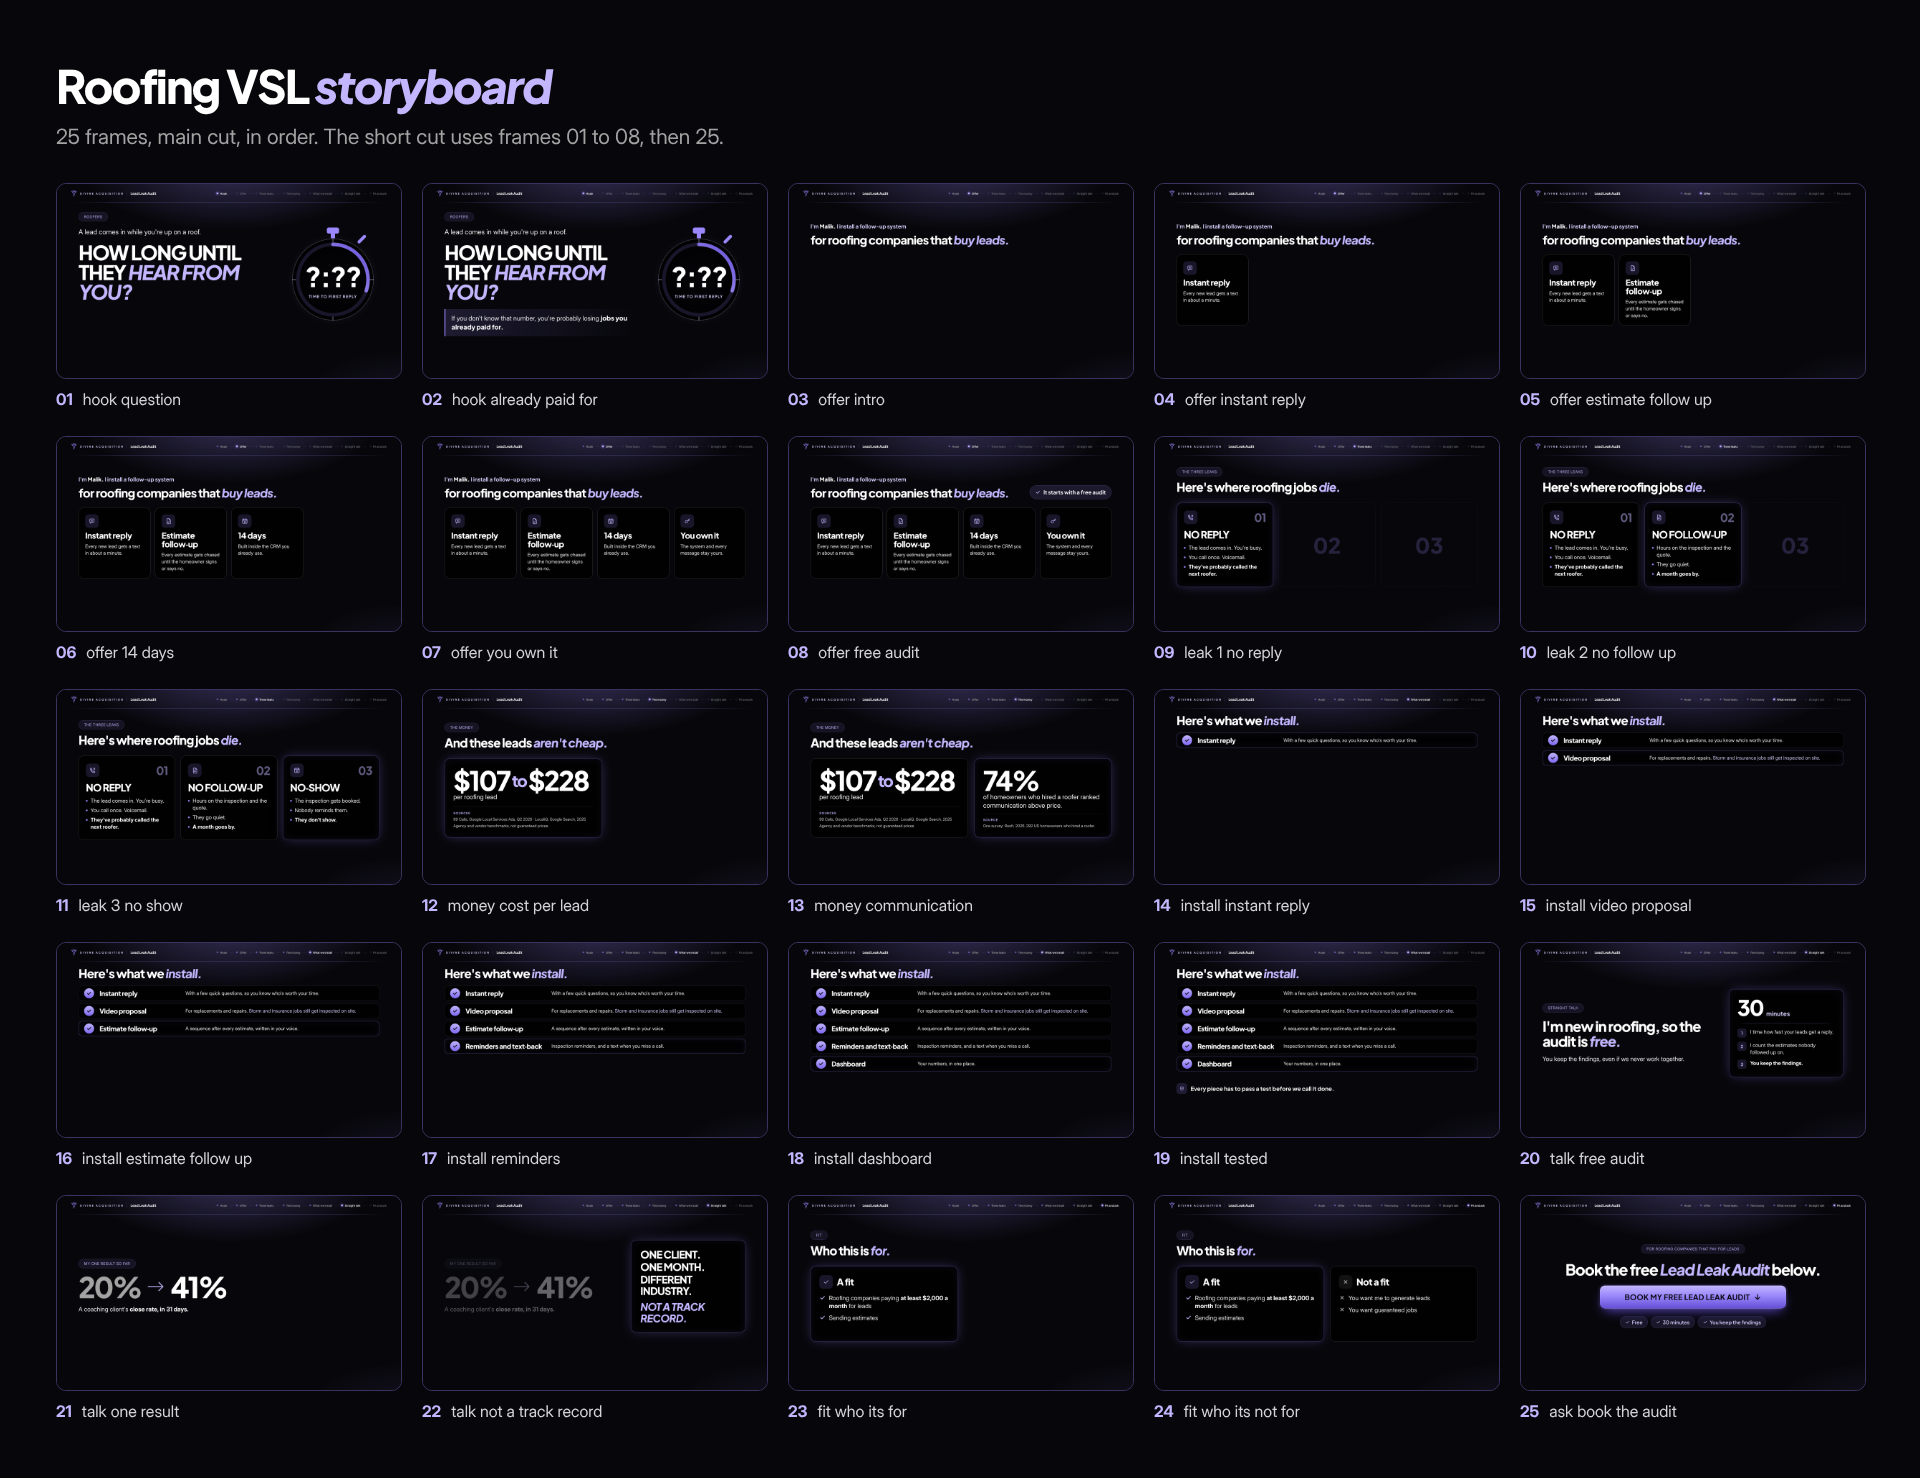
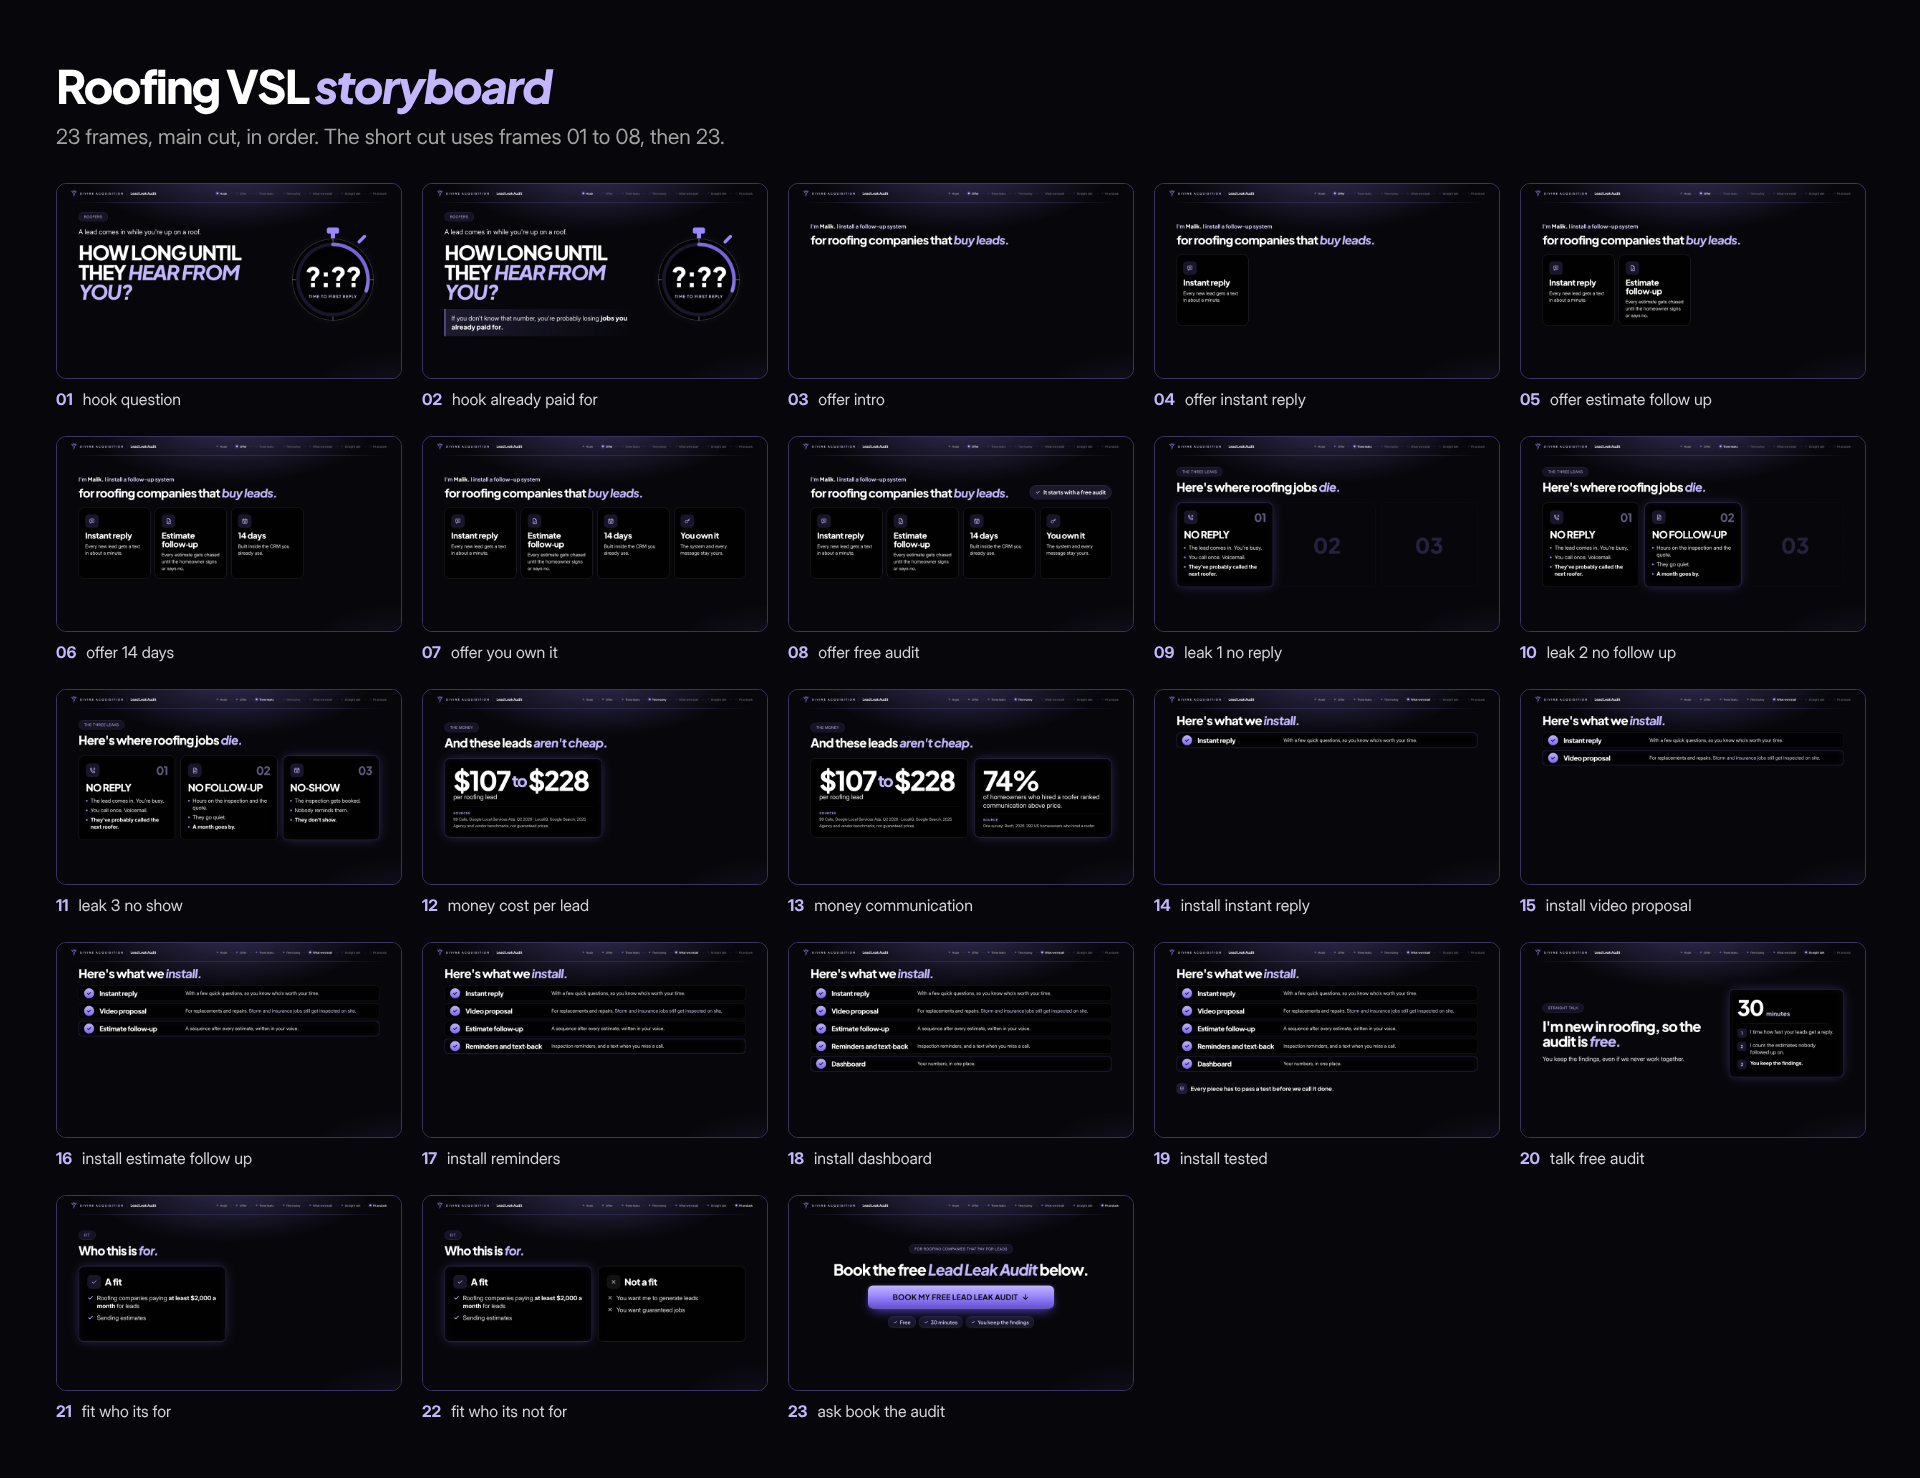
Drop the coaching client result from the roofing VSL deck.
The straight-talk section now ends on the free audit, so the main cut is 23 frames and about 2:15. The README and the script window's time marks follow the new order.

Claude-Session: https://claude.ai/code/session_01Kh6jz6vtaj6KuuUY9dr5wz

diff --git a/docs/roofing-vsl/deck.html b/docs/roofing-vsl/deck.html
@@ -204,8 +204,7 @@ body.idle { cursor: none; }
   pointer-events: none;
 }
 
-html.export [data-step],
-html.export .dim { transition: none !important; }
+html.export [data-step] { transition: none !important; }
 
 /* ─── Shared pieces, scaled up from the roofing page ────────────────────── */
 
@@ -300,12 +299,6 @@ h1, h2, h3 {
   stroke-width: 1.8;
   stroke-linecap: round;
   stroke-linejoin: round;
-}
-
-.dim {
-  opacity: 0.38;
-  filter: saturate(0.6);
-  transition: opacity 0.45s ease, filter 0.45s ease;
 }
 
 .rule {
@@ -564,33 +557,6 @@ h1, h2, h3 {
   font-weight: 800;
 }
 .clock li:last-child { color: #fff; font-weight: 700; }
-
-/* ─── Straight talk: the one result ──────────────────────────────────────── */
-
-.s-result { align-items: center; gap: 70px; }
-.s-result .result { display: flex; flex: 1; flex-direction: column; gap: 30px; }
-.jump { display: flex; align-items: center; gap: 34px; }
-.jump strong { font-family: var(--head); font-size: 160px; font-weight: 800; letter-spacing: -0.06em; line-height: 0.9; }
-.jump .from { color: var(--muted); }
-.jump svg { width: 96px; height: 62px; fill: none; stroke: var(--accent); stroke-width: 6; stroke-linecap: round; stroke-linejoin: round; }
-.s-result .lead strong { color: #fff; font-weight: 700; }
-.truth {
-  width: 640px;
-  flex: none;
-  padding: 48px 52px;
-  gap: 6px;
-  border-color: rgba(154, 136, 252, 0.75);
-}
-.truth p {
-  margin: 0;
-  font-family: var(--head);
-  font-size: 58px;
-  font-weight: 800;
-  letter-spacing: -0.04em;
-  line-height: 1.1;
-  text-transform: uppercase;
-}
-.truth p:last-child { margin-top: 18px; color: var(--accent); font-style: italic; }
 
 /* ─── Fit and ask ────────────────────────────────────────────────────────── */
 
@@ -907,7 +873,7 @@ html.script-mode .prompter {
     </div>
   </section>
 
-  <!-- ═══ 1:41 STRAIGHT TALK (the audit) ══════════════════════════════════ -->
+  <!-- ═══ 1:41 STRAIGHT TALK ════════════════════════════════════════ -->
   <section class="slide s-audit" data-id="audit" data-section="talk" data-cuts="main"
            data-names="talk-free-audit">
     <div class="copy">
@@ -926,30 +892,6 @@ html.script-mode .prompter {
     </div>
     <div class="notes">
       <div class="say" data-step="0">I'm new in roofing, so the audit is free. In 30 minutes I time how fast your leads get a reply and count the estimates nobody followed up on. You keep the findings, even if we never work together.</div>
-    </div>
-  </section>
-
-  <!-- ═══ 1:41 STRAIGHT TALK (the one result) ═════════════════════════════ -->
-  <section class="slide s-result" data-id="result" data-section="talk" data-cuts="main"
-           data-names="talk-one-result,talk-not-a-track-record">
-    <div class="result" data-dim-at="1">
-      <p class="pill">My one result so far</p>
-      <div class="jump">
-        <strong class="from">20%</strong>
-        <svg viewBox="0 0 110 70"><path d="M6 35h94M74 9l26 26-26 26"/></svg>
-        <strong>41%</strong>
-      </div>
-      <p class="lead">A coaching client's <strong>close rate, in 31 days.</strong></p>
-    </div>
-    <div class="card truth featured" data-step="1">
-      <p>One client.</p>
-      <p>One month.</p>
-      <p>Different industry.</p>
-      <p>Not a track record.</p>
-    </div>
-    <div class="notes">
-      <div class="say" data-step="0">My one result so far: a coaching client went from a 20 percent close rate to 41 in 31 days.</div>
-      <div class="say" data-step="1">One client, one month, different industry. That's not a track record.</div>
     </div>
   </section>
 
@@ -1055,11 +997,11 @@ html.script-mode .prompter {
     main: [
       ['hook', 'Hook', '0:00'], ['offer', 'Offer', '0:13'], ['leaks', 'Three leaks', '0:35'],
       ['money', 'The money', '0:58'], ['install', 'What we install', '1:11'],
-      ['talk', 'Straight talk', '1:41'], ['fit', 'Fit and ask', '2:09'],
+      ['talk', 'Straight talk', '1:41'], ['fit', 'Fit and ask', '1:56'],
     ],
     short: [['hook', 'Hook', '0:00'], ['offer', 'Offer', '0:13'], ['fit', 'Ask', '0:35']],
   };
-  const LENGTH = { main: '2:30', short: '0:45' };
+  const LENGTH = { main: '2:15', short: '0:45' };
 
   const params = new URLSearchParams(location.search);
   const isScript = location.hash === '#script';
@@ -1092,7 +1034,6 @@ html.script-mode .prompter {
     slide.querySelectorAll('[data-step]:not(.say)').forEach((el) => {
       el.classList.toggle('off', +el.dataset.step > step);
     });
-    slide.querySelectorAll('[data-dim-at]').forEach((el) => el.classList.toggle('dim', step >= +el.dataset.dimAt));
 
     // Leak cards: built ones are solid, the newest is lit, the rest are outlines.
     slide.querySelectorAll('[data-leak]').forEach((el) => {

diff --git a/scripts/roofing-vsl/deck.template.html b/scripts/roofing-vsl/deck.template.html
@@ -196,8 +196,7 @@ body.idle { cursor: none; }
   pointer-events: none;
 }
 
-html.export [data-step],
-html.export .dim { transition: none !important; }
+html.export [data-step] { transition: none !important; }
 
 /* ─── Shared pieces, scaled up from the roofing page ────────────────────── */
 
@@ -292,12 +291,6 @@ h1, h2, h3 {
   stroke-width: 1.8;
   stroke-linecap: round;
   stroke-linejoin: round;
-}
-
-.dim {
-  opacity: 0.38;
-  filter: saturate(0.6);
-  transition: opacity 0.45s ease, filter 0.45s ease;
 }
 
 .rule {
@@ -556,33 +549,6 @@ h1, h2, h3 {
   font-weight: 800;
 }
 .clock li:last-child { color: #fff; font-weight: 700; }
-
-/* ─── Straight talk: the one result ──────────────────────────────────────── */
-
-.s-result { align-items: center; gap: 70px; }
-.s-result .result { display: flex; flex: 1; flex-direction: column; gap: 30px; }
-.jump { display: flex; align-items: center; gap: 34px; }
-.jump strong { font-family: var(--head); font-size: 160px; font-weight: 800; letter-spacing: -0.06em; line-height: 0.9; }
-.jump .from { color: var(--muted); }
-.jump svg { width: 96px; height: 62px; fill: none; stroke: var(--accent); stroke-width: 6; stroke-linecap: round; stroke-linejoin: round; }
-.s-result .lead strong { color: #fff; font-weight: 700; }
-.truth {
-  width: 640px;
-  flex: none;
-  padding: 48px 52px;
-  gap: 6px;
-  border-color: rgba(154, 136, 252, 0.75);
-}
-.truth p {
-  margin: 0;
-  font-family: var(--head);
-  font-size: 58px;
-  font-weight: 800;
-  letter-spacing: -0.04em;
-  line-height: 1.1;
-  text-transform: uppercase;
-}
-.truth p:last-child { margin-top: 18px; color: var(--accent); font-style: italic; }
 
 /* ─── Fit and ask ────────────────────────────────────────────────────────── */
 
@@ -899,7 +865,7 @@ html.script-mode .prompter {
     </div>
   </section>
 
-  <!-- ═══ 1:41 STRAIGHT TALK (the audit) ══════════════════════════════════ -->
+  <!-- ═══ 1:41 STRAIGHT TALK ════════════════════════════════════════ -->
   <section class="slide s-audit" data-id="audit" data-section="talk" data-cuts="main"
            data-names="talk-free-audit">
     <div class="copy">
@@ -918,30 +884,6 @@ html.script-mode .prompter {
     </div>
     <div class="notes">
       <div class="say" data-step="0">I'm new in roofing, so the audit is free. In 30 minutes I time how fast your leads get a reply and count the estimates nobody followed up on. You keep the findings, even if we never work together.</div>
-    </div>
-  </section>
-
-  <!-- ═══ 1:41 STRAIGHT TALK (the one result) ═════════════════════════════ -->
-  <section class="slide s-result" data-id="result" data-section="talk" data-cuts="main"
-           data-names="talk-one-result,talk-not-a-track-record">
-    <div class="result" data-dim-at="1">
-      <p class="pill">My one result so far</p>
-      <div class="jump">
-        <strong class="from">20%</strong>
-        <svg viewBox="0 0 110 70"><path d="M6 35h94M74 9l26 26-26 26"/></svg>
-        <strong>41%</strong>
-      </div>
-      <p class="lead">A coaching client's <strong>close rate, in 31 days.</strong></p>
-    </div>
-    <div class="card truth featured" data-step="1">
-      <p>One client.</p>
-      <p>One month.</p>
-      <p>Different industry.</p>
-      <p>Not a track record.</p>
-    </div>
-    <div class="notes">
-      <div class="say" data-step="0">My one result so far: a coaching client went from a 20 percent close rate to 41 in 31 days.</div>
-      <div class="say" data-step="1">One client, one month, different industry. That's not a track record.</div>
     </div>
   </section>
 
@@ -1047,11 +989,11 @@ html.script-mode .prompter {
     main: [
       ['hook', 'Hook', '0:00'], ['offer', 'Offer', '0:13'], ['leaks', 'Three leaks', '0:35'],
       ['money', 'The money', '0:58'], ['install', 'What we install', '1:11'],
-      ['talk', 'Straight talk', '1:41'], ['fit', 'Fit and ask', '2:09'],
+      ['talk', 'Straight talk', '1:41'], ['fit', 'Fit and ask', '1:56'],
     ],
     short: [['hook', 'Hook', '0:00'], ['offer', 'Offer', '0:13'], ['fit', 'Ask', '0:35']],
   };
-  const LENGTH = { main: '2:30', short: '0:45' };
+  const LENGTH = { main: '2:15', short: '0:45' };
 
   const params = new URLSearchParams(location.search);
   const isScript = location.hash === '#script';
@@ -1084,7 +1026,6 @@ html.script-mode .prompter {
     slide.querySelectorAll('[data-step]:not(.say)').forEach((el) => {
       el.classList.toggle('off', +el.dataset.step > step);
     });
-    slide.querySelectorAll('[data-dim-at]').forEach((el) => el.classList.toggle('dim', step >= +el.dataset.dimAt));
 
     // Leak cards: built ones are solid, the newest is lit, the rest are outlines.
     slide.querySelectorAll('[data-leak]').forEach((el) => {

diff --git a/docs/roofing-vsl/README.md b/docs/roofing-vsl/README.md
@@ -26,7 +26,7 @@ Every word on screen comes from the script or from its claims table. The deck ha
 | ← · Backspace | Back one build |
 | Home / End | First / last frame |
 | P | Open the script window |
-| S | Switch between the main cut (2:30) and the short cut (0:45) |
+| S | Switch between the main cut (about 2:15) and the short cut (0:45) |
 | F | Full screen |
 | H | Show or hide the key hint |
 | R (in the script window) | Restart the clock |
@@ -35,9 +35,9 @@ The bottom 180 px of every frame are left empty for burned-in captions. If you p
 
 The script's production notes say to shoot vertical or 4:5 on your phone. This deck is for a 16:9 version, which is what the page's video slot plays. If you shoot phone-only, use the frames as cutaways in the edit.
 
-## Storyboard: main cut (about 2:30)
+## Storyboard: main cut (about 2:15)
 
-Times assume the script's pace of about 150 words a minute. They land on the script's section marks.
+Times assume the script's pace of about 150 words a minute. The coaching-client result is cut, so everything from Fit and ask on runs about 13 seconds ahead of the script's marks.
 
 ### 0:00 Hook
 
@@ -88,26 +88,24 @@ Times assume the script's pace of about 150 words a minute. They land on the scr
 | # | Time | Frame | On screen | You say |
 | --- | --- | --- | --- | --- |
 | 20 | 1:41 | `frames/20-talk-free-audit.png` | The audit is free. 30 minutes: time the reply, count the estimates, you keep the findings | I'm new in roofing, so the audit is free. In 30 minutes I time how fast your leads get a reply and count the estimates nobody followed up on. You keep the findings, even if we never work together. |
-| 21 | 1:56 | `frames/21-talk-one-result.png` | 20% → 41%, a coaching client's close rate in 31 days | My one result so far: a coaching client went from a 20 percent close rate to 41 in 31 days. |
-| 22 | 2:04 | `frames/22-talk-not-a-track-record.png` | ONE CLIENT. ONE MONTH. DIFFERENT INDUSTRY. NOT A TRACK RECORD. | One client, one month, different industry. That's not a track record. |
 
-### 2:09 Fit and ask
+### 1:56 Fit and ask
 
 | # | Time | Frame | On screen | You say |
 | --- | --- | --- | --- | --- |
-| 23 | 2:09 | `frames/23-fit-who-its-for.png` | A fit: $2,000+ a month on leads, sending estimates | This is for roofing companies paying at least two thousand dollars a month for leads and sending estimates. |
-| 24 | 2:16 | `frames/24-fit-who-its-not-for.png` | + Not a fit: want leads generated, want guaranteed jobs | If you want me to generate leads, or guarantee jobs, this isn't for you. |
-| 25 | 2:22 | `frames/25-ask-book-the-audit.png` | Button: Book my free Lead Leak Audit | If it is, book the free audit below. Thirty minutes. You keep the findings. |
+| 21 | 1:56 | `frames/21-fit-who-its-for.png` | A fit: $2,000+ a month on leads, sending estimates | This is for roofing companies paying at least two thousand dollars a month for leads and sending estimates. |
+| 22 | 2:04 | `frames/22-fit-who-its-not-for.png` | + Not a fit: want leads generated, want guaranteed jobs | If you want me to generate leads, or guarantee jobs, this isn't for you. |
+| 23 | 2:09 | `frames/23-ask-book-the-audit.png` | Button: Book my free Lead Leak Audit | If it is, book the free audit below. Thirty minutes. You keep the findings. |
 
 ## Storyboard: short cut (about 0:45)
 
-This cut has the same hook and offer, then the ask. It uses frames 01 to 08 and then 25.
+This cut has the same hook and offer, then the ask. It uses frames 01 to 08 and then 23.
 
 | # | Time | Frame | You say |
 | --- | --- | --- | --- |
 | 01 to 02 | 0:00 | Hook | As in the main cut |
 | 03 to 08 | 0:13 | Offer | As in the main cut |
-| 25 | 0:35 | `frames/25-ask-book-the-audit.png` | If you pay for roofing leads, book the free 30-minute audit below. You keep the findings. |
+| 23 | 0:35 | `frames/23-ask-book-the-audit.png` | If you pay for roofing leads, book the free 30-minute audit below. You keep the findings. |
 
 ## Before you record
 
@@ -115,7 +113,7 @@ The script left these items open. The deck follows the script as written, so cha
 
 - Confirm "about a minute" is the first-reply time you will build to (frame 04).
 - Confirm you want your name in the opening line (frame 03).
-- Confirm the audit is still 30 minutes and the install is still 14 days (frames 06, 20, 25).
+- Confirm the audit is still 30 minutes and the install is still 14 days (frames 06, 20, 23).
 - The video proposal line (frame 15) belongs in the pitch only for clients who already have a measurement tool. For a general VSL, decide whether to keep it.
 
 ## Changing the deck
